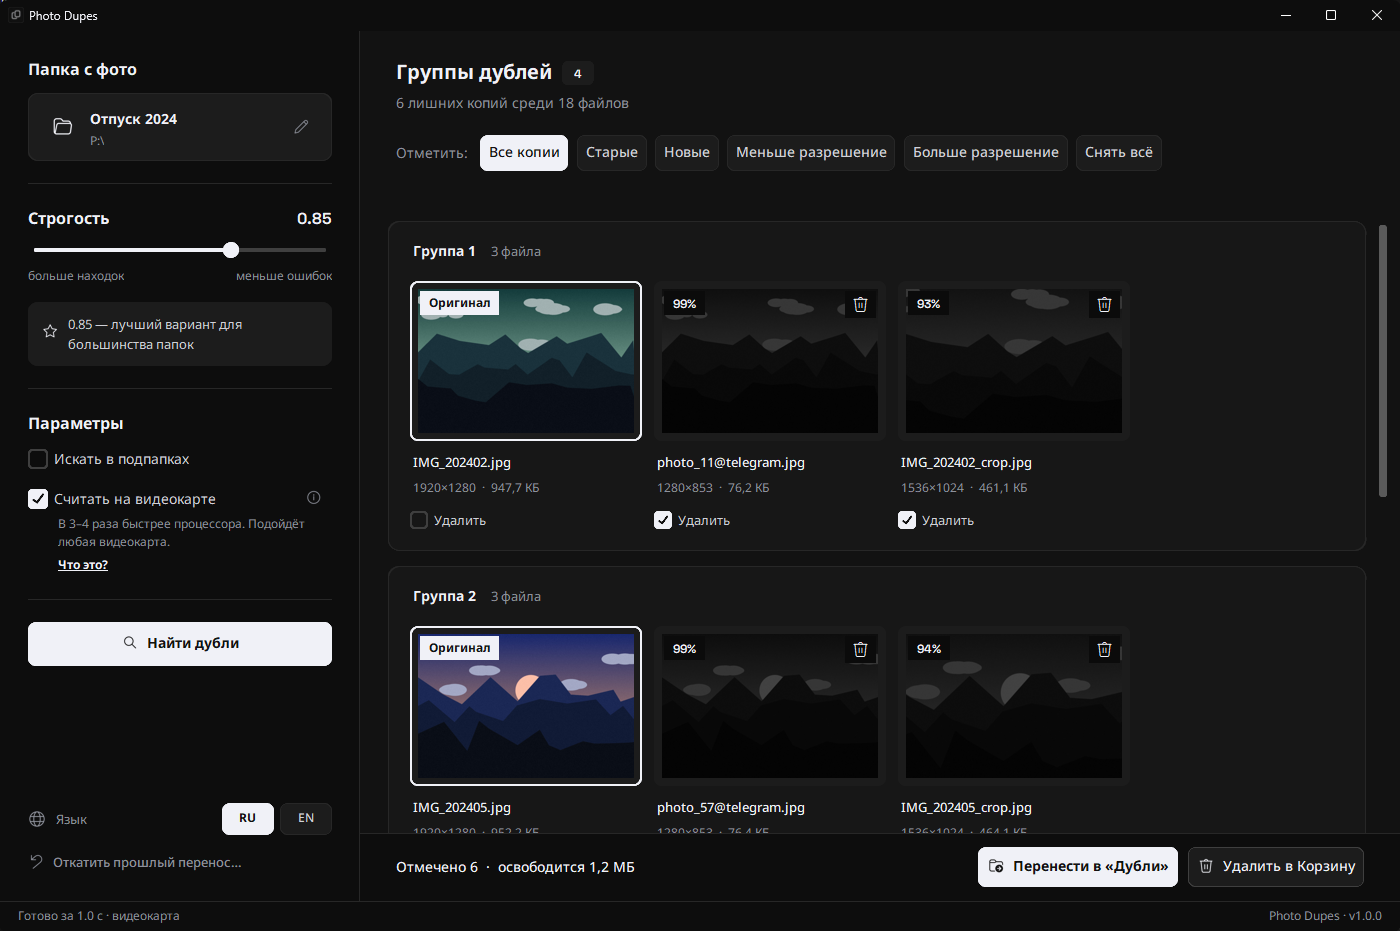
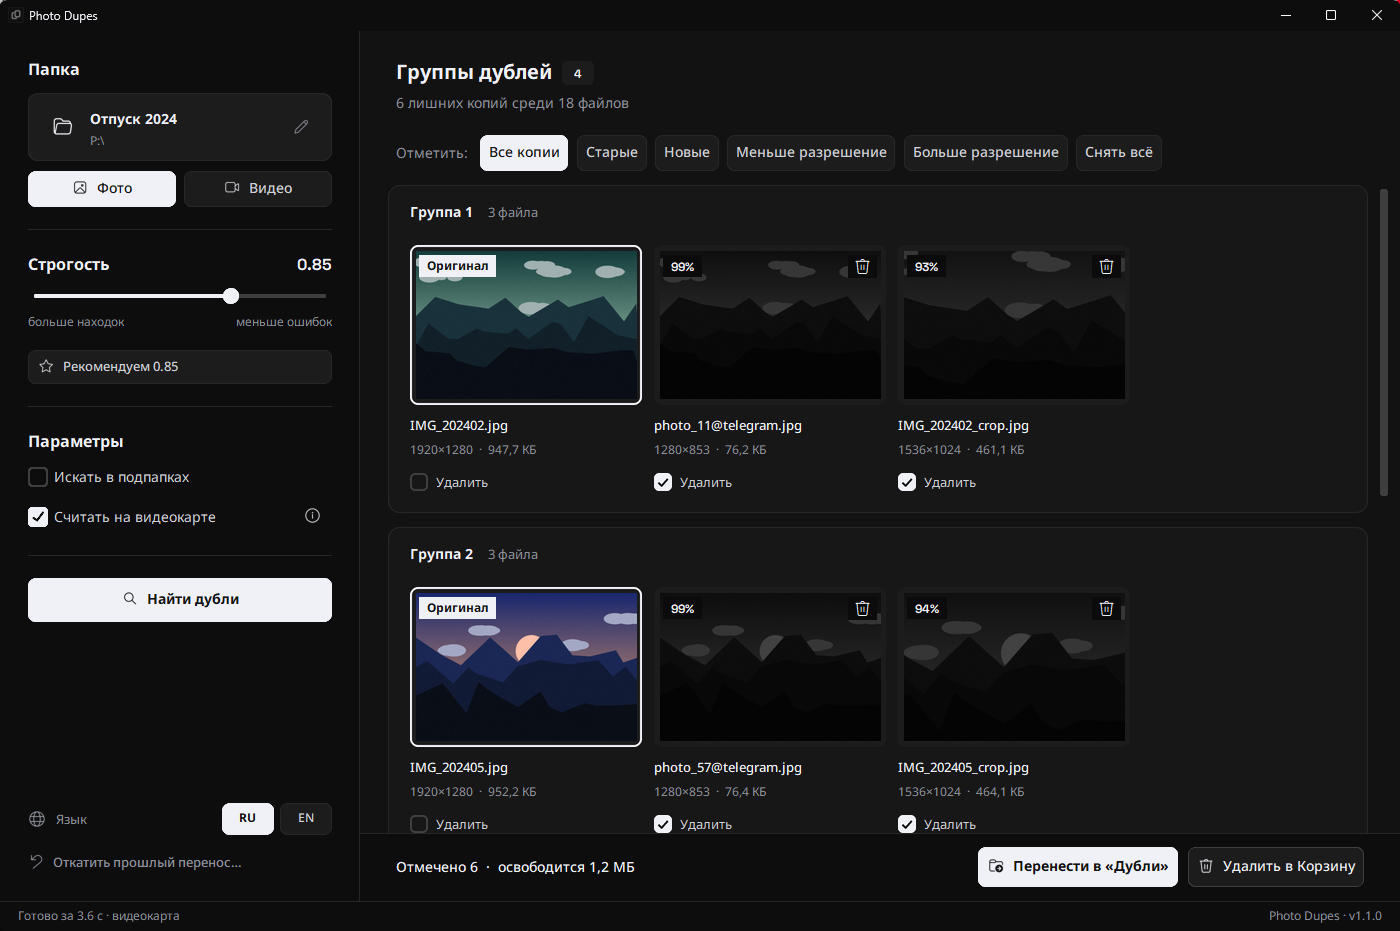
docs: new screenshots, README for 1.1

diff --git a/README.md b/README.md
@@ -13,7 +13,7 @@
 Python и что-либо ещё ставить не нужно.
 
 1. Открой страницу **[Releases](https://github.com/krooasan/photo-dupes-finder/releases)** (справа на главной странице репозитория, блок «Releases»).
-2. В самой верхней версии раскрой **Assets** и нажми **`PhotoDupesFinder-win64.zip`** (~150 МБ).
+2. В самой верхней версии раскрой **Assets** и нажми **`PhotoDupesFinder-win64.zip`** (~190 МБ).
 3. Открой папку «Загрузки», нажми на архив правой кнопкой → **Извлечь всё…** → **Извлечь**.
    Из самого архива программа не запустится — его обязательно нужно распаковать.
 4. В распакованной папке открой `PhotoDupesFinder` и дважды щёлкни **`PhotoDupesFinder.exe`**.
@@ -25,11 +25,12 @@ Python и что-либо ещё ставить не нужно.
 ## Что умеет
 
 - находит копии одного снимка: скриншоты с рамками и чёрными полосами, обрезки, пересжатые копии из мессенджеров;
-- находит копии видео (пересжатые, уменьшенные, обрезанные по времени); фото и видео ищутся отдельно — переключатель «Фото / Видео» под папкой;
+- находит копии видео: пересжатые, уменьшенные, обрезанные по времени;
+- фото и видео ищутся отдельно, переключатель «Фото / Видео» под папкой;
 - показывает группы с превью и открывает фото на весь экран прямо в программе;
 - сам выбирает оригинал: без рамок и полос, с бо́льшим разрешением, не PNG;
 - в одно нажатие отмечает «оставить самый новый / старый / с большим или меньшим разрешением»;
-- переносит лишнее в папку `Дубли` (можно откатить) или удаляет в Корзину;
+- переносит лишнее в папку `Дубли` или удаляет в Корзину; перенос можно откатить одной кнопкой;
 - папку можно просто перетащить в окно;
 - запоминает результат: повторный поиск по той же папке — секунды;
 - считает на любой видеокарте (NVIDIA / AMD / Intel), а без неё — на процессоре;
